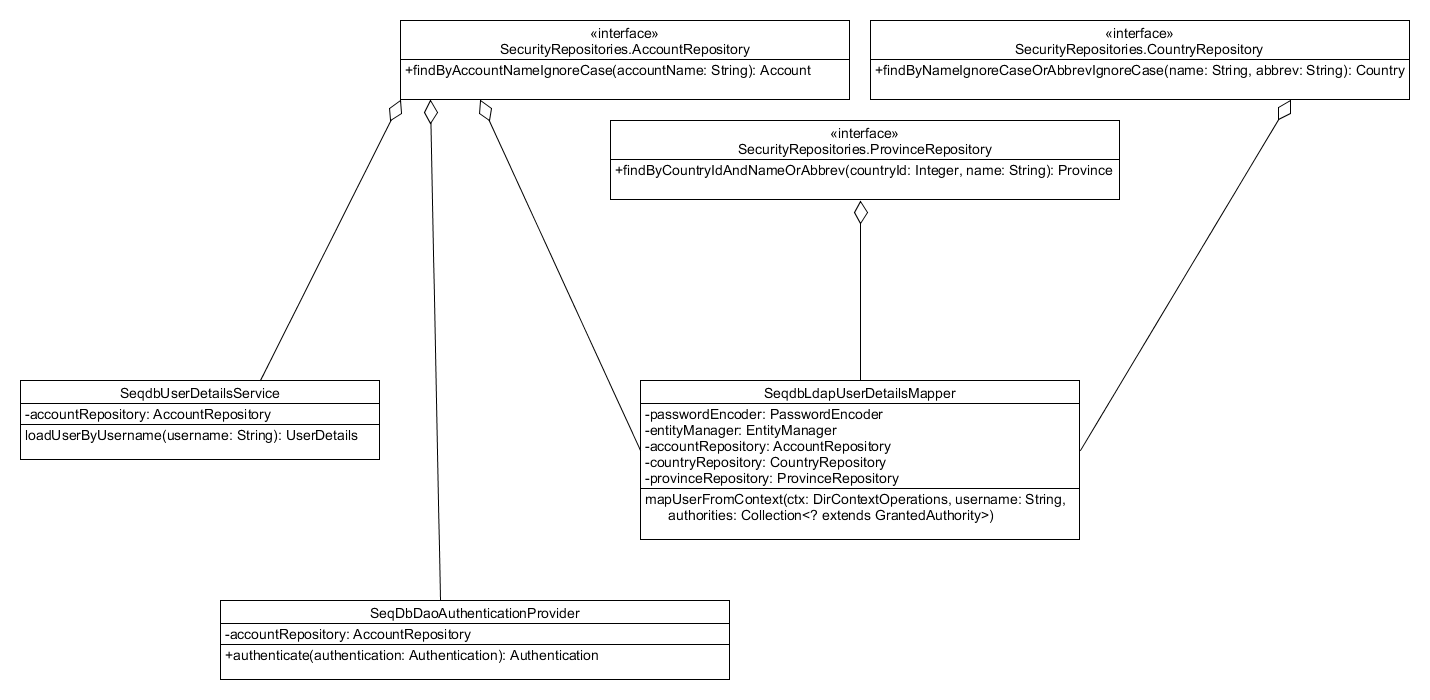
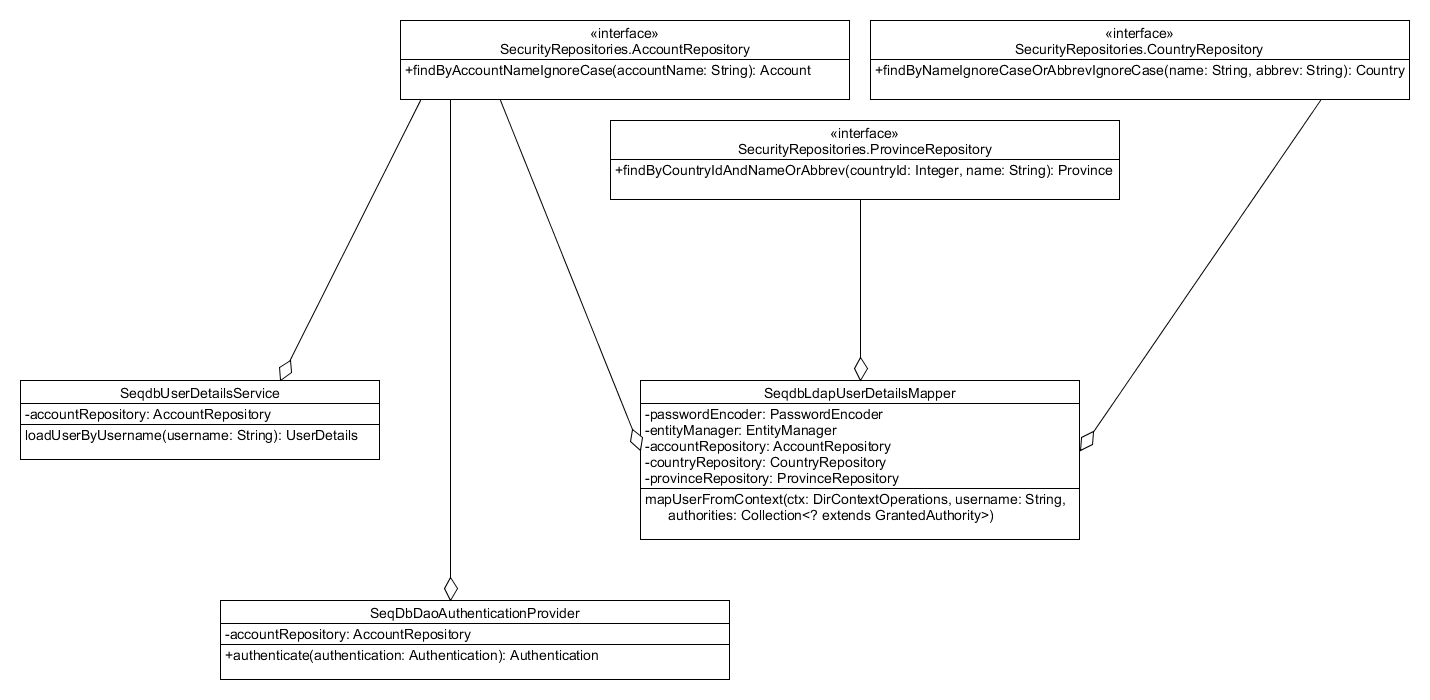
Feedback Feature #11916 Design authentication support
https://redmine.biodiversity.agr.gc.ca/issues/11916

-Corrected the arrow directions in the security uml diagram.
-Changed the lombok-generated constructor access level for
SeqdbUserDetailsService and SeqdbLdapUserDetailsMapper to
package-protected.

diff --git a/src/main/java/ca/gc/aafc/seqdb/api/security/SeqdbUserDetailsService.java b/src/main/java/ca/gc/aafc/seqdb/api/security/SeqdbUserDetailsService.java
@@ -12,6 +12,7 @@ import org.springframework.security.core.userdetails.UsernameNotFoundException;
 
 import ca.gc.aafc.seqdb.api.security.SecurityRepositories.AccountRepository;
 import ca.gc.aafc.seqdb.entities.Account;
+import lombok.AccessLevel;
 import lombok.NonNull;
 import lombok.RequiredArgsConstructor;
 
@@ -20,7 +21,7 @@ import lombok.RequiredArgsConstructor;
  * Security to perform password authentication.
  */
 @Named
-@RequiredArgsConstructor(onConstructor_ = @Inject)
+@RequiredArgsConstructor(onConstructor_ = @Inject, access = AccessLevel.PACKAGE)
 public class SeqdbUserDetailsService implements UserDetailsService {
 
   @NonNull

diff --git a/src/main/java/ca/gc/aafc/seqdb/api/security/SeqdbLdapUserDetailsMapper.java b/src/main/java/ca/gc/aafc/seqdb/api/security/SeqdbLdapUserDetailsMapper.java
@@ -30,6 +30,7 @@ import ca.gc.aafc.seqdb.entities.Group;
 import ca.gc.aafc.seqdb.entities.People;
 import ca.gc.aafc.seqdb.entities.PeopleAddress;
 import ca.gc.aafc.seqdb.entities.Province;
+import lombok.AccessLevel;
 import lombok.NonNull;
 import lombok.RequiredArgsConstructor;
 
@@ -38,7 +39,7 @@ import lombok.RequiredArgsConstructor;
  * when they log in for the first time.
  */
 @Component
-@RequiredArgsConstructor(onConstructor_ = @Inject)
+@RequiredArgsConstructor(onConstructor_ = @Inject, access = AccessLevel.PACKAGE)
 public class SeqdbLdapUserDetailsMapper extends LdapUserDetailsMapper {
 
   @NonNull
